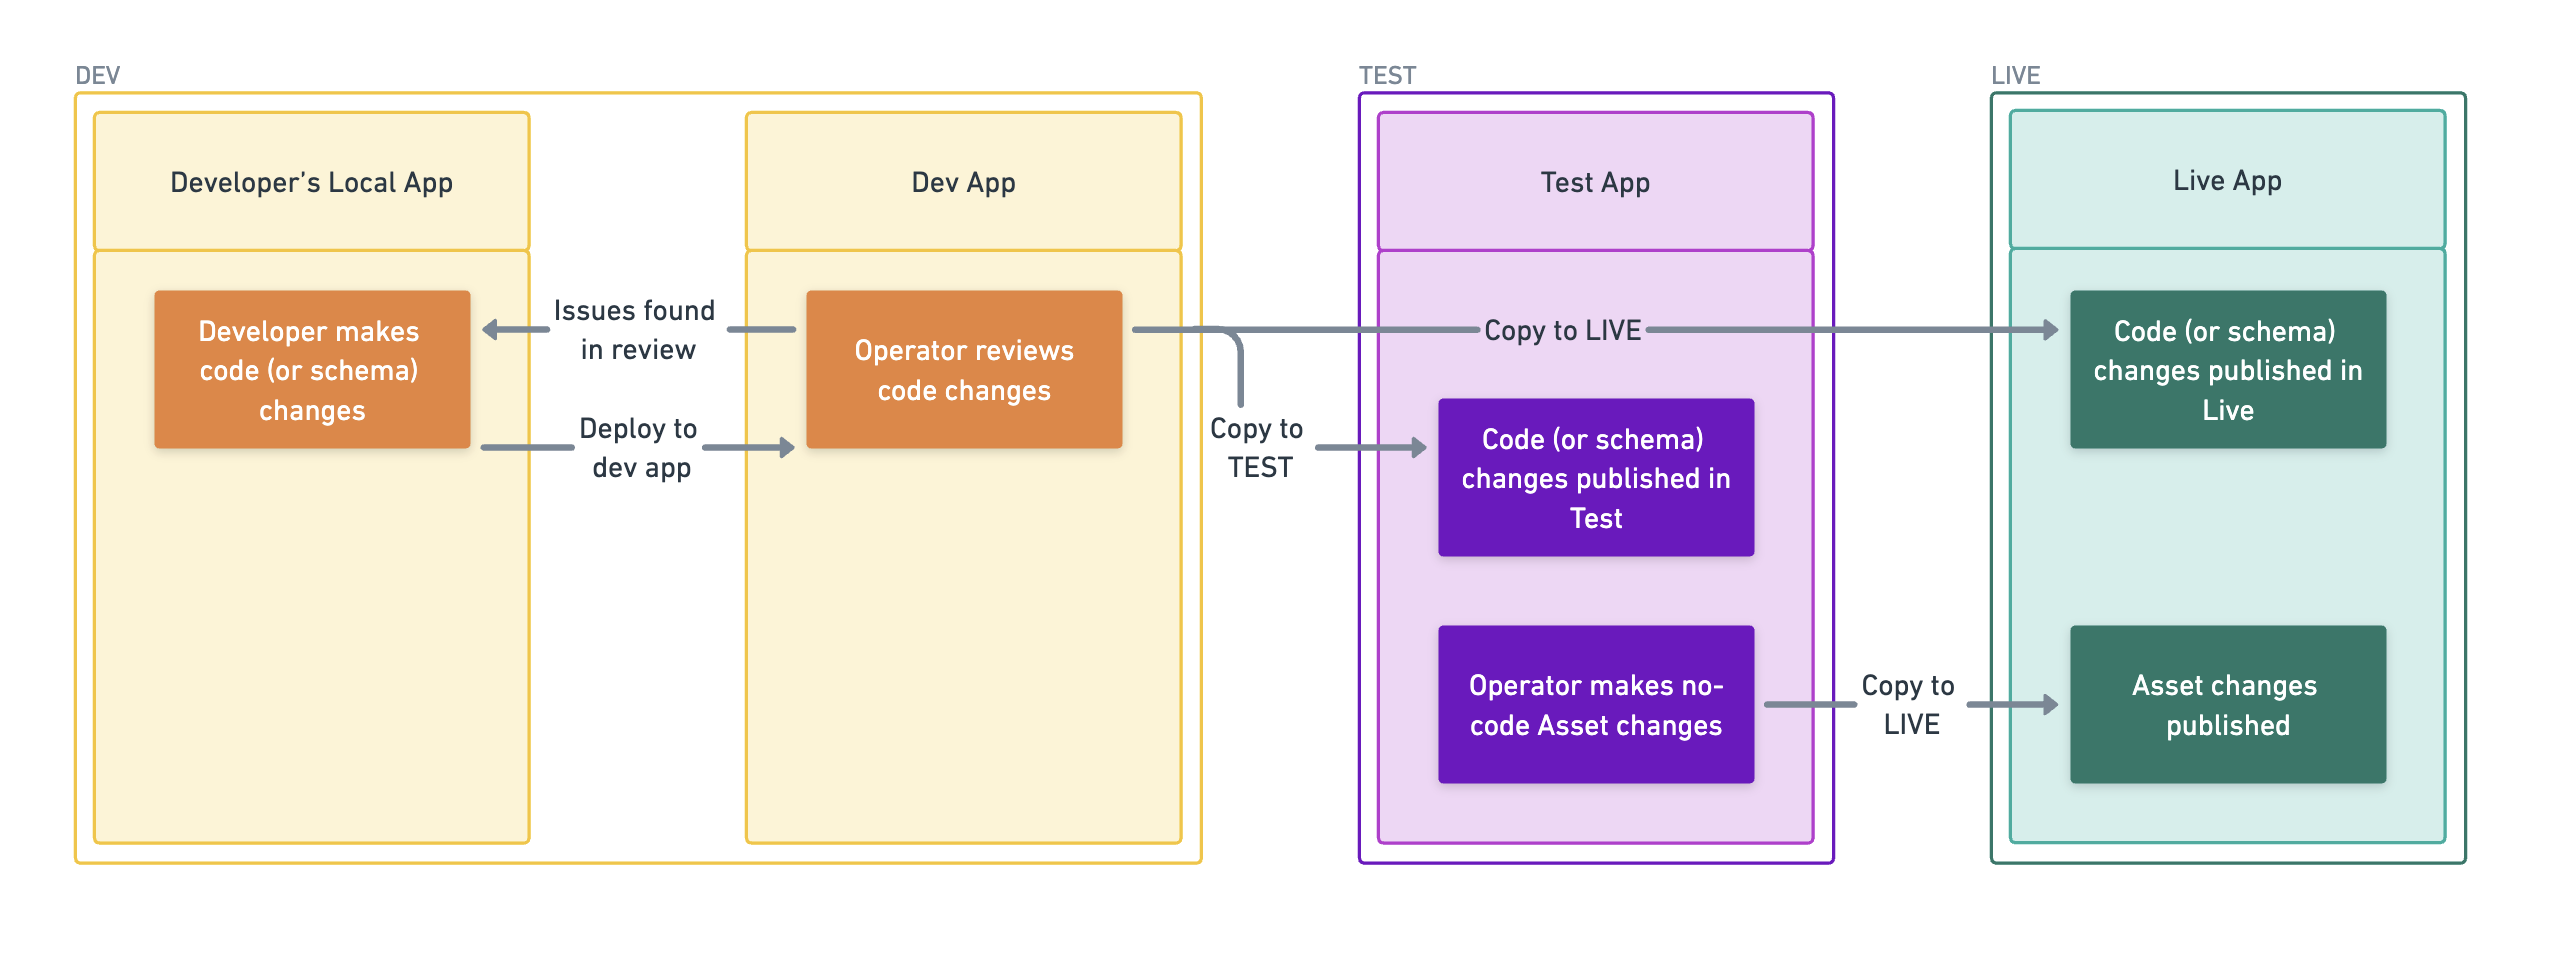
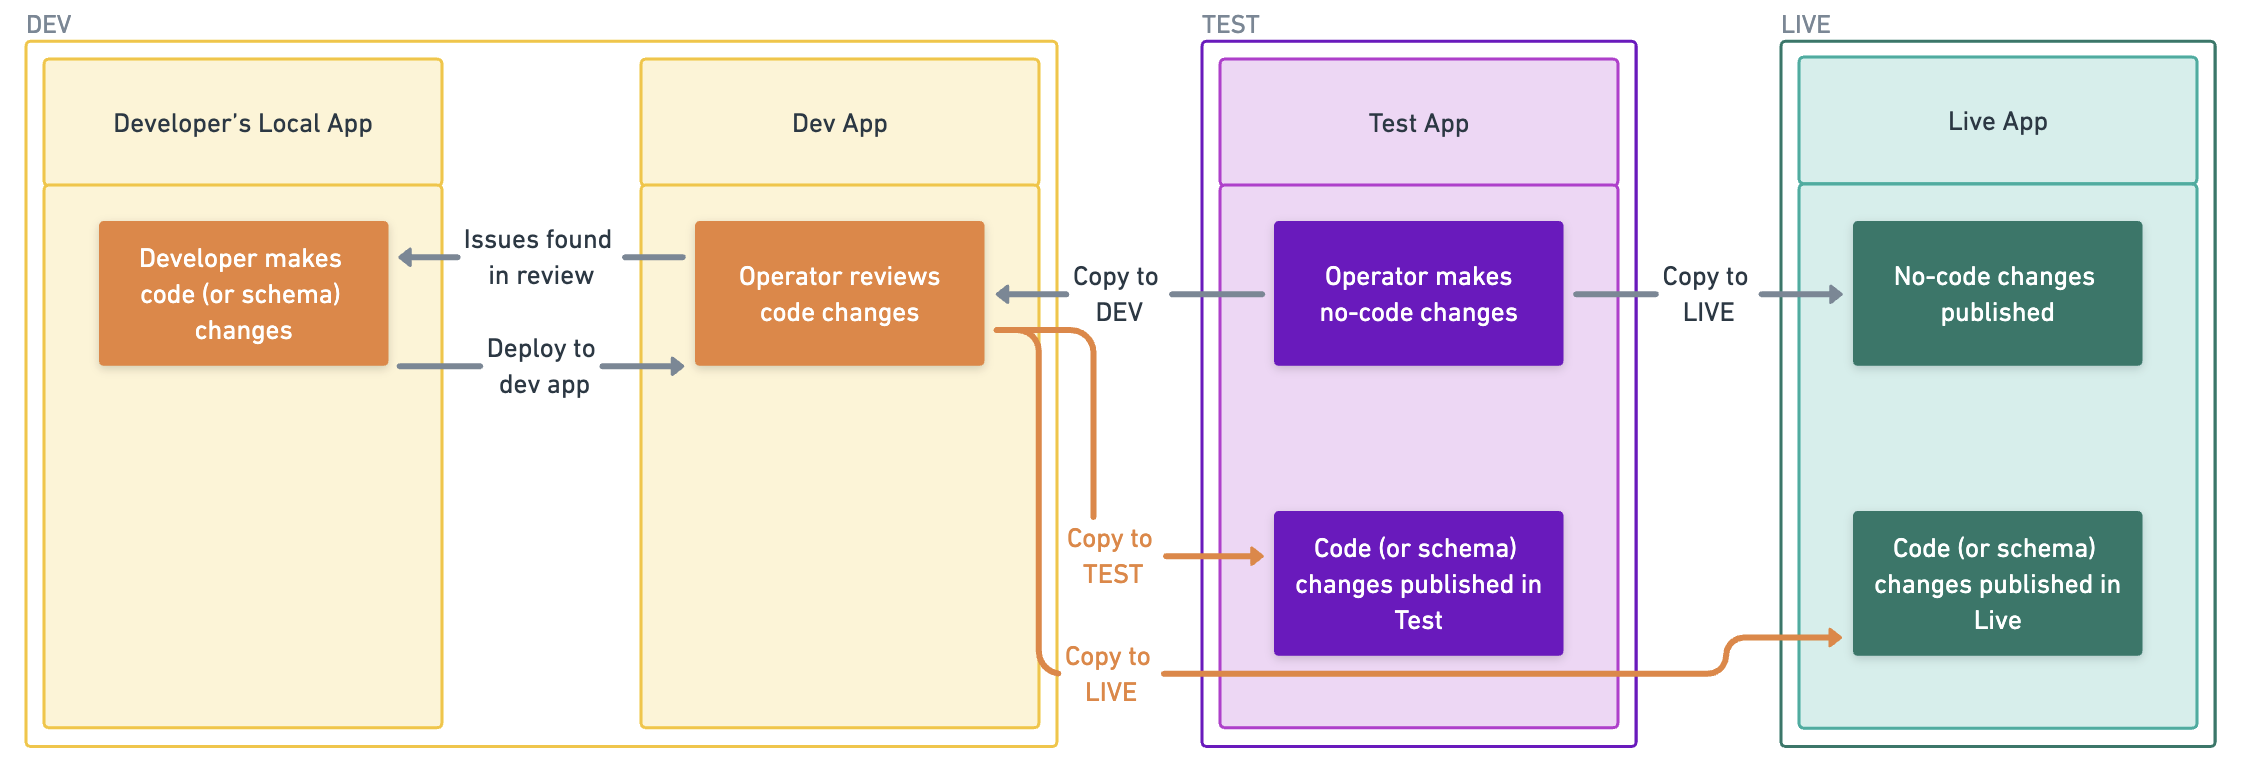
Include mention of test-to-dev asset copy

Changed region(s): [[0.0, 0.0, 0.9991, 0.9922]]

diff --git a/src/docs/concepts-development/flex-environments/index.md b/src/docs/concepts-development/flex-environments/index.md
@@ -1,7 +1,7 @@
 ---
 title: Flex environments
 slug: flex-environments
-updated: 2023-03-06
+updated: 2023-08-16
 category: concepts-development
 ingress:
   What are Flex environments and the differences the three types have.
@@ -31,7 +31,7 @@ but it can only include one live environment.
 
 **Environment**: A marketplace instance within your organization which
 can be created for different purposes. There are three different types
-of environments: dev, test, and live. You can access them all with the
+of environments: Dev, Test, and Live. You can access them all with the
 same Flex account.
 
 </info>
@@ -45,41 +45,47 @@ which also follows the purpose of the environment.
 ### Dev environment
 
 The dev environment is for development purposes. This is where building
-your marketplace happens and where you can test the build
+your marketplace happens and where you can explore the build
 functionalities in peace by using test users and
 [test credit cards with Stripe](/how-to/set-up-and-use-stripe/).
 
 Even after launching your marketplace, you can continue building new
-features in Dev without causing disruptions to your test or live
+features in Dev without causing disruptions to your Test or Live
 marketplaces. Note that you should not onboard real users or listings to
 Dev, as they cannot be moved into Live.
 
 ### Test environment
 
-The test environment works as a preview environment for Live. Whereas
+The Test environment works as a preview environment for Live. Whereas
 Dev is meant for the developer to make code changes, Test is meant to
-reflect your live environment as accurately as possible.
+reflect your Live environment as accurately as possible.
 
 Therefore, whenever the development team wants to publish their code
 changes, they will test and review them in Dev first, and then copy them
 to Test and Live at the same time.
 
-The operator can make no-code changes in Test, and copy them to Live
-without needing the developer to intervene. Because Test and Live are
-identical, the operator can trust that their changes made in Test show
-up correctly when published to Live.
+The operator can make no-code changes in Test, and copy them to Dev and
+Live without needing the developer to intervene. Because Test and Live
+are identical, the operator can trust that their changes made in Test
+show up correctly when published to Live. Copying no-code assets to Dev
+makes it easy for developers to be working on the correct configurations
+in Dev.
+
+If development work requires new configurations to be copied from Dev to
+Test (such as listing fields), they need to be recreated manually in
+Test, and can then be copied to Live.
 
 Note that you should not onboard real users or listings to Test, as they
 cannot be moved into Live.
 
 ### Live environment
 
-The live environment is where the business happens: here you can onboard
+The Live environment is where the business happens: here you can onboard
 your real customers and listings, and your customers can make real money
 transactions.
 
 When the necessary development has been done and your marketplace is
-ready for onboarding real users, you can initiate the live environment
+ready for onboarding real users, you can initiate the Live environment
 setup from Console. This is also the point when you start paying the
 Flex subscriptions (see more information about
 [Flex pricing](https://www.sharetribe.com/products/flex/#pricing)).
@@ -91,7 +97,8 @@ flow from Dev to Test to Live:
 
 - code changes are made and reviewed in Dev, and get pushed from Dev to
   Test and Live
-- no-code changes are made in Test, and get pushed from Test to Live.
+- no-code changes are made in Test, and get pushed from Test to Dev and
+  Live.
 
 ![Flex environments workflow](./flex-environments.png)
 
@@ -103,8 +110,8 @@ Code changes include
 
 No-code changes include
 
-- Microcopy changes in Flex Console
-- Pages changes in Flex Console
+- Configuration changes in Console, like adding new listing fields
+- Content changes in Console, like editing your landing page
 
 We recommend that you keep Test and Live identical as much as possible.
 In other words, push any code changes from Dev to Test and Live at the
